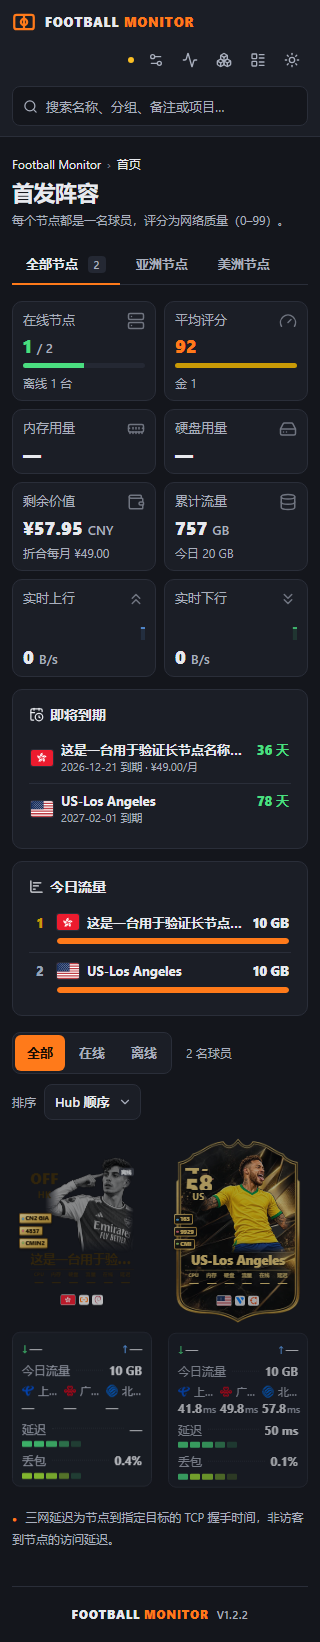
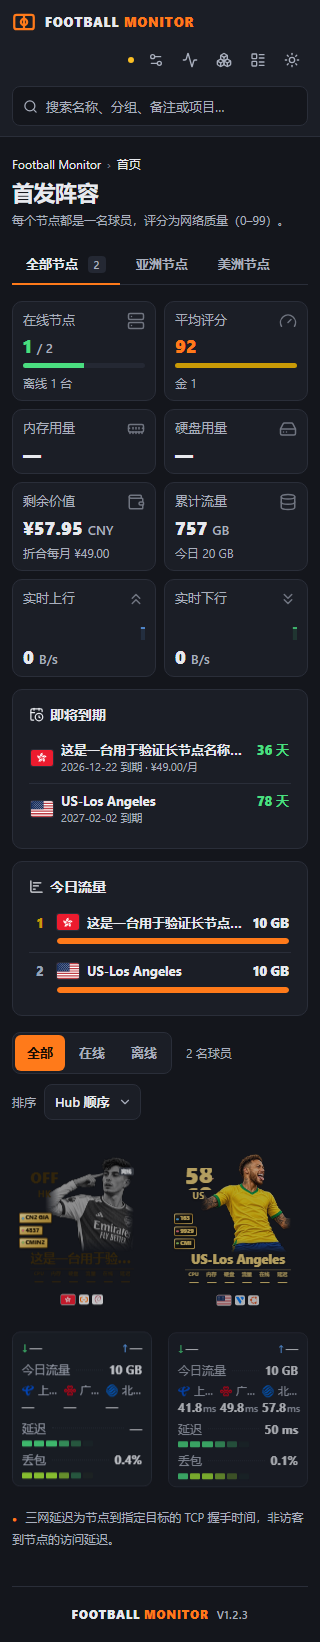
Football Monitor 1.2.3

diff --git a/CHANGELOG.md b/CHANGELOG.md
@@ -1,5 +1,13 @@
 # Changelog
 
+## 1.2.3 · 2026-11-16 · 历史图表
+
+### Changed
+
+- 详情页“历史表现”分“资源”和“网络延迟”两个标签；资源为四张整行宽的图，网络速率用对数刻度，下行蓝、上行橙，Hub 记录峰值时加虚线峰值与淡色带。
+- 网络延迟图上方每条线路一张卡片（平均延迟、丢包率），点击隐藏或显示；纵轴贴着数据，丢包处画红点，只看一条线时显示延迟范围，可勾选“削峰”。
+- 主题站演示页显示示例项目，可以看到“项目”页。
+
 ## 1.2.2 · 2026-11-16 · 网站命名
 
 ### Changed

diff --git a/docs/manual.md b/docs/manual.md
@@ -1,6 +1,6 @@
 # Football Monitor
 
-**你的服务器，你的主场。** 为极简探针 Monitor 构建的第三方足球球星卡主题。Vue 3 静态 SPA，当前版本 `1.2.2`。源码与发布：<https://github.com/NSJLUCAS/football-monitor>。
+**你的服务器，你的主场。** 为极简探针 Monitor 构建的第三方足球球星卡主题。Vue 3 静态 SPA，当前版本 `1.2.3`。源码与发布：<https://github.com/NSJLUCAS/football-monitor>。
 
 ![首页：本地模拟 API 的视觉验收](docs/screenshots/dashboard-1440.png)
 

diff --git a/README.md b/README.md
@@ -2,7 +2,7 @@
 
 为极简探针 Monitor 打造的足球球星卡主题：每台服务器都是一名球员，**你的服务器，你的主场**。
 
-由 [NSJLUCAS](https://github.com/NSJLUCAS) 维护，当前版本 `1.2.2`。
+由 [NSJLUCAS](https://github.com/NSJLUCAS) 维护，当前版本 `1.2.3`。
 
 [![preview](preview.png)](preview.png)
 
